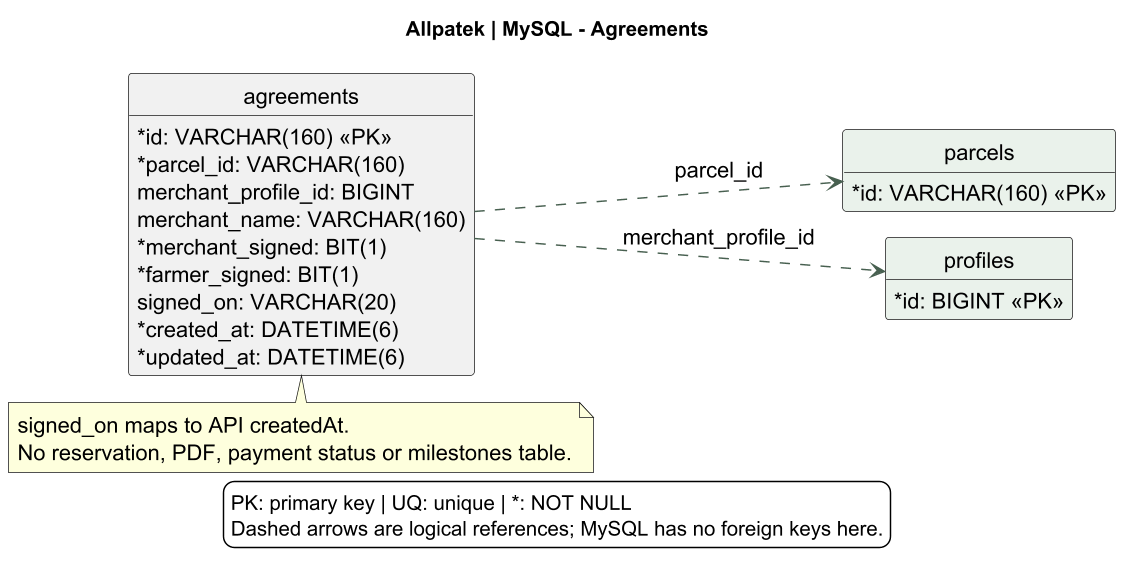
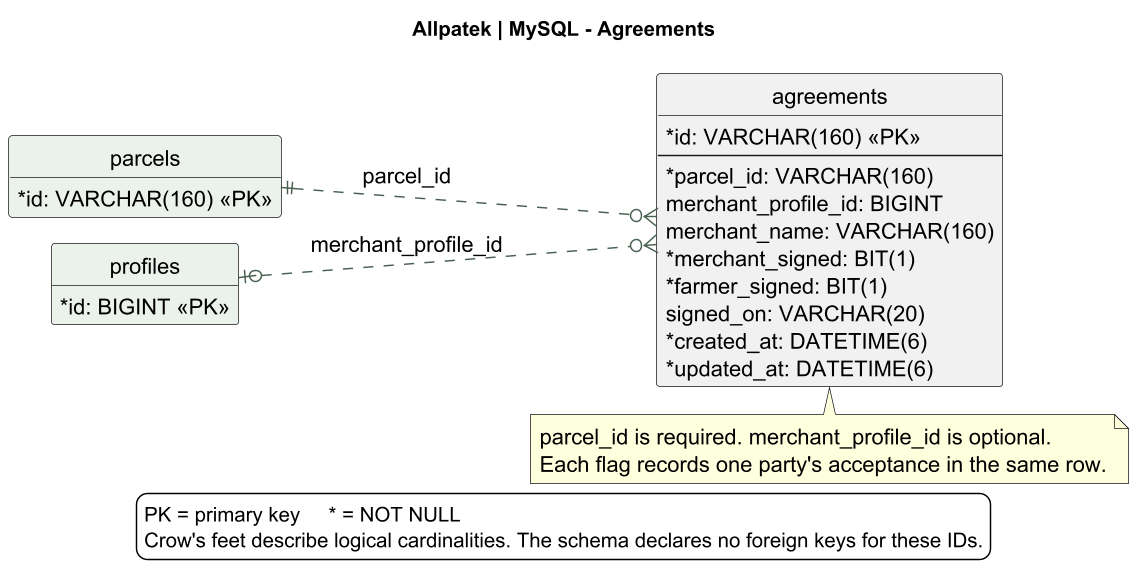
docs(database): specify agreements columns and constraints

Changed region(s): [[0.0, 0.1183, 0.9964, 0.9757], [0.3425, 0.0296, 0.4982, 0.0887], [0.5294, 0.0296, 0.6228, 0.0887]]

diff --git a/README.md b/README.md
@@ -2289,9 +2289,11 @@ Una parcela guarda el identificador del propietario. Un perfil puede estar asoci
 
 *Figura 4.8.1-A. Tabla parcels y su propietario.* [Ampliar en SVG](assets/chapter-04/architecture/14-database-plots.svg) · [Fuente PlantUML](assets/chapter-04/architecture/14-database-plots.puml).
 
-![Figura 4.8.1-B. Tabla agreements y referencias a parcela y comerciante](assets/chapter-04/architecture/15-database-contracts.png)
+Cada acuerdo guarda una referencia de parcela obligatoria y una referencia de comerciante opcional. Las aceptaciones se conservan en el mismo registro.
 
-*Figura 4.8.1-B. Tabla agreements y referencias a parcela y comerciante.* <a href="assets/chapter-04/architecture/15-database-contracts.puml" style="text-decoration: none;">Fuente PlantUML</a> · <a href="assets/chapter-04/architecture/15-database-contracts.svg" style="text-decoration: none;">SVG</a>.
+![Figura 4.8.1-B. Tabla agreements, parcela y comerciante](assets/chapter-04/architecture/15-database-contracts.png)
+
+*Figura 4.8.1-B. Tabla agreements, parcela y comerciante.* [Ampliar en SVG](assets/chapter-04/architecture/15-database-contracts.svg) · [Fuente PlantUML](assets/chapter-04/architecture/15-database-contracts.puml).
 
 ![Figura 4.8.1-C. Tabla wallets y referencia al perfil](assets/chapter-04/architecture/16-database-payments.png)
 
